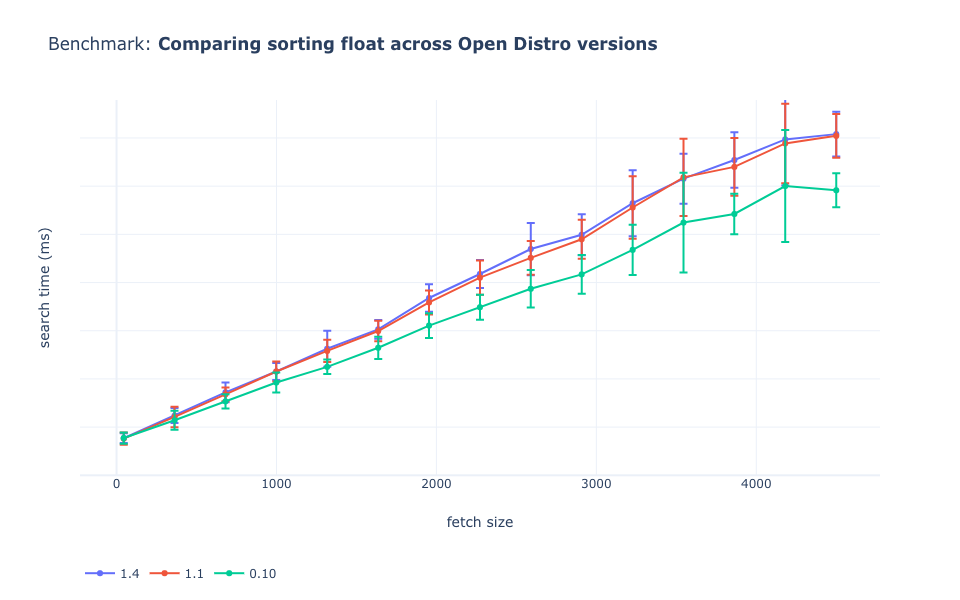
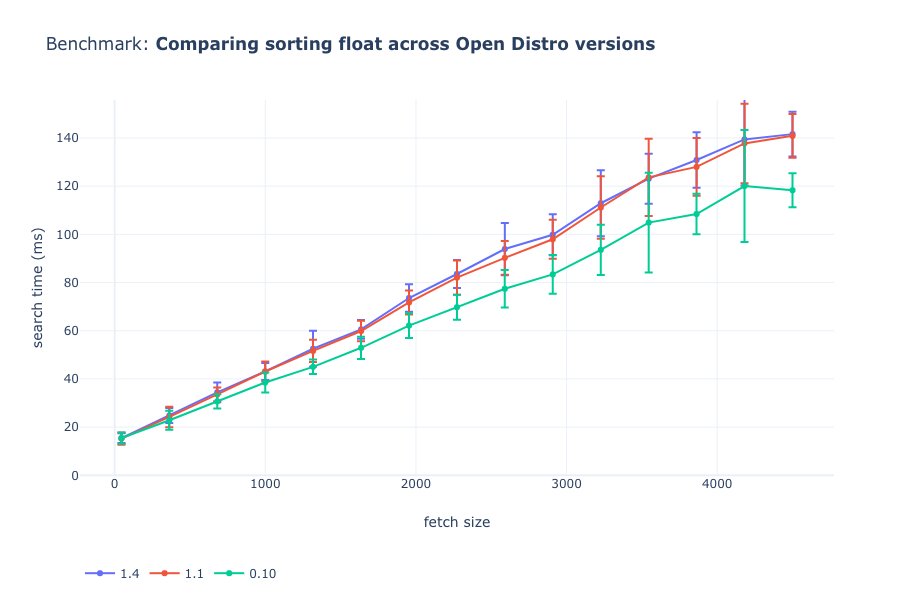
Add yaxis tick labels and a note to README on interpretation

diff --git a/src/elasticsearch_ranking_benchmarks/plot.py b/src/elasticsearch_ranking_benchmarks/plot.py
@@ -36,9 +36,8 @@ def benchmark_fig(benchmark_name, title=None, out_dir="out"):
             "title": "search time (ms)",
             "domain": [0.1, 1],
             "range": [0, y_max * 1.1],
-            "showticklabels": False,
         },
-        "width": 960,
+        "width": 914,
         "height": 600,
         "legend_orientation": "h",
     }

diff --git a/README.md b/README.md
@@ -9,6 +9,10 @@ It's difficult to reliably test absolute performance differences offline.
 These benchmarks are _indicative_ of relative performance between configurations.
 Suggesting directions to explore in a production setting.
 
+These benchmarks run as a single-node cluster on a laptop with no other traffic.
+The shape and relative differences between configurations is more important than the absolute values in the timing measurements.
+The values on the _yaxis_, query + fetch time in milliseconds, gives some idea of the scale.
+
 ## Running benchmarks
 
 ### Run benchmarks for a config
